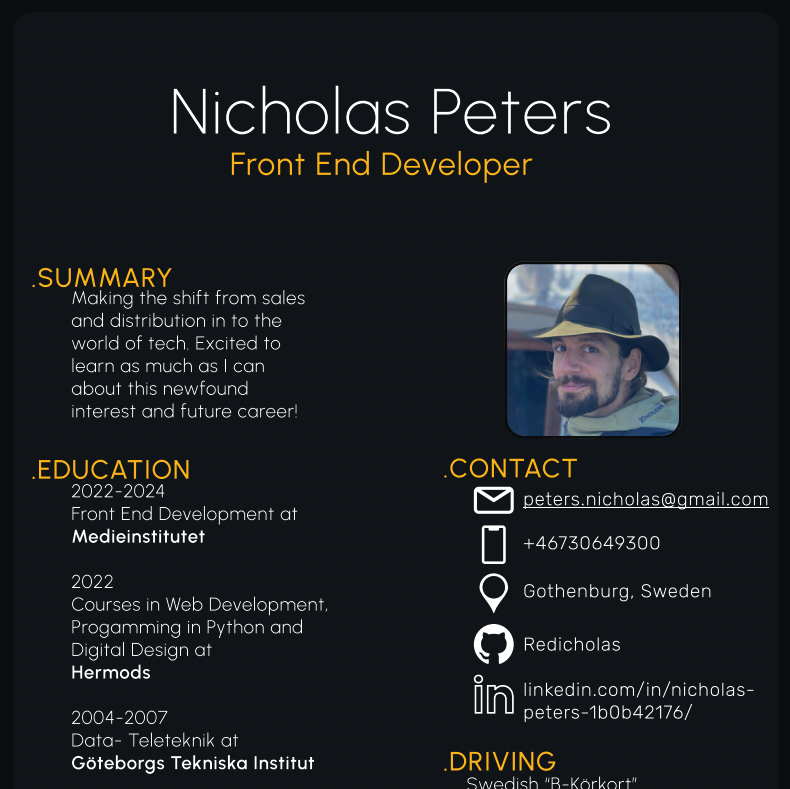
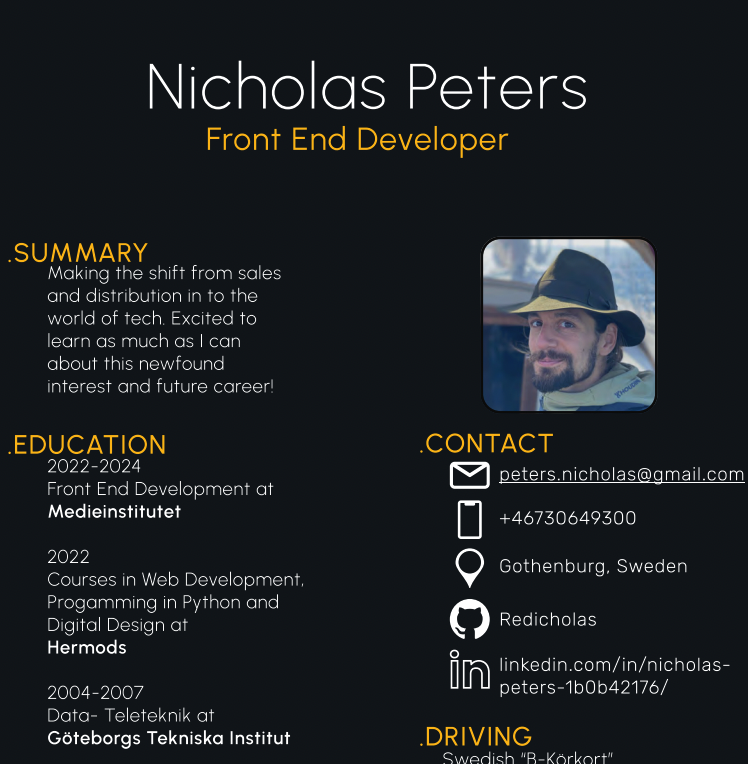
layout for desktop

diff --git a/index.html b/index.html
@@ -1,5 +1,5 @@
 <!DOCTYPE html>
-<html lang="en">
+<html lang="en" class="dark">
   <head>
     <meta charset="UTF-8" />
     <link rel="icon" type="image/svg+xml" href="/img/logo.svg" />
@@ -17,8 +17,7 @@
     ></script>
     <link rel="preconnect" href="https://fonts.googleapis.com">
     <link rel="preconnect" href="https://fonts.gstatic.com" crossorigin>
-    <link href="https://fonts.googleapis.com/css2?family=Jost:ital,wght@0,100;0,300;0,400;1,600&display=swap" rel="stylesheet">    
-    <link rel="stylesheet" href="src/style.css">
+    <link href="https://fonts.googleapis.com/css2?family=Montserrat:wght@300;600&display=swap" rel="stylesheet">    <link rel="stylesheet" href="src/style.css">
     <title>Nicholas Peters Portfolio</title>
   </head>
   
@@ -42,39 +41,41 @@
     </header>
 
     <!-- Hero -->
-    <section class="p-8 sm:pt-20 max-w-fit mx-auto">
-      <div class="flex sm:mt-20 justify-between items-center">
-        <h1 id="heading" class="text-3xl sm:text-6xl
-        textAppear invisible">
-          Nicholas:<br />&nbsp;&nbsp;Front End<br />&nbsp;&nbsp;Developer
-        </h1>
-        <img src="img/nicholas-peters.png" alt="Profile Image of Nicholas Peters" class="h-36 sm:h-56 rounded-full -z-10 opacity-80" loading="lazy" />
-      </div>
-      <h2 class="pt-8 text-xl sm:text-2xl max-w-md">
-        Creating intuitive and accessible web experiences
-      </h2>
-    </section>
+    <div class="flex flex-col xl:flex-row sm:min-h-screen gap-4 items-center justify-center">
+      <section class="p-8 sm:pt-20 max-w-fit mx-auto">
+        <div class="flex sm:mt-20 justify-between items-center flex-col xl:gap-4">
+          <h1 id="heading" class="text-5xl sm:text-6xl xl:text-8xl
+          textAppear invisible">
+            Nicholas:<br />&nbsp;&nbsp;Front End<br />&nbsp;&nbsp;Developer
+          </h1>
+          <img src="img/nicholas-peters.png" alt="Profile Image of Nicholas Peters" 
+            class="h-36 sm:h-56 xl:h-72 rounded-full -z-10 opacity-80" 
+            loading="lazy" />
+        </div>
+        <!-- <h2 class="pt-8 text-xl sm:text-2xl max-w-md">
+          Creating intuitive and accessible web experiences
+        </h2> -->
+      </section>
 
-    <!-- About -->
-    <section class="py-12 " id="about">
-      <h2 class="text-center text-2xl sm:text-4xl mb-4">A little about me.</h2>
-      <p class="px-8 sm:px-0 py-8 max-w-xl mx-auto">
-        Hi there! <br />
-        My name is Nicholas Peters. I am an aspiring front-end developer
-        currently studying at Medieinstitutet in Sweden. I am excited to start
-        my first apprenticeship in the autumn of 2023 and gain hands-on
-        experience in the field. My ultimate goal is to find a medium-sized web
-        agency that specializes in React, but I am open to exploring different
-        opportunities and expanding my skillset. If you have any recommendations
-        or would like to get in touch, please don't hesitate to reach out. I am
-        always eager to learn and grow as a developer.
-      </p>
+      <!-- About -->
+      <section class="xl:mt-36 xl:pr-24 px-8 sm:px-0 py-8 max-w-xl mx-auto" id="about">
+        <h2 class="text-center text-2xl sm:text-4xl mb-4 xl:text-5xl">A little about me.</h2>
+        <p class=" xl:text-xl">
+          Hello there! <br />
+          I'm Nicholas Peters. I'm a future front-end developer who's currently attending Medieinstitutet in Sweden. 
+          In the fall of 2023, I'm looking forward to beginning my first period of apprenticeship and getting some practical work experience. 
+          I'm always keen to learn new technologies and improve as a developer.
+          Please do not hesitate to get in touch if you have any recommendations or would want to contact me for an idea. 
+        </p>
+        <a href="#contact"><button class="py-4 px-12 mt-12 shadow-btn">Contact</button></a>
+    </div>
 
       <!-- CV Thumbnail -->
+      <section class="xl:flex">
       <div class="mx-auto flex flex-col justify-center items-center">
-        <h3 class="text-center text-xl">My CV</h3>
+        <h3 class="text-center text-xl xl:text-4xl xl:mb-12">My CV</h3>
         <button id="cvThumbnail">
-          <img src="/img/cv-img.png" alt="My Cv" class="rounded cursor-zoom-in"
+          <img src="/img/cv-img.png" alt="My Cv" class="rounded cursor-zoom-in xl:w-36"
           height="100" width="100" />
         </button>
       </div>
@@ -90,9 +91,9 @@
       </div>
 
       <!-- Technologies -->
-      <div class="my-16 p-8 rounded-xl max-w-xl mx-auto">
-        <h3 class="text-center text-xl mb-2">Technologies</h3>
-        <div class="text-center flex justify-around">
+      <div class="my-16 p-8 rounded-xl max-w-xl mx-auto ">
+        <h3 class="text-center text-xl mb-2 xl:text-4xl xl:mb-12">Technologies</h3>
+        <div class="text-center flex justify-around gap-24 xl:text-2xl">
           <ul>
             <li>HTML</li>
             <li>CSS</li>

diff --git a/src/style.css b/src/style.css
@@ -34,20 +34,36 @@ i {
 h1,
 h2,
 h3 {
-  font-family: "Jost", "sans";
+  font-family: "Montserrat", "sans";
   font-weight: 600;
-  font-style: italic;
 }
 
 p {
-  font-family: "Jost", "sans";
+  font-family: "Montserrat", "sans";
   font-weight: 300;
 }
 
-.neumorphic {
-  border-radius: 20px;
-  background: #bbd6e2;
-  box-shadow: 10px 10px 30px #7b8c94, -10px -10px 30px #d7f6ff;
+.shadow-btn {
+  padding: 10px 20px;
+  border: none;
+  font-size: 17px;
+  color: #fff;
+  border-radius: 7px;
+  letter-spacing: 4px;
+  font-weight: 700;
+  text-transform: uppercase;
+  transition: 0.5s;
+  transition-property: box-shadow;
+}
+
+.shadow-btn {
+  background: #40dde6;
+  box-shadow: 0 0 5px #40dde6;
+}
+
+.shadow-btn:hover {
+  box-shadow: 0 0 5px #40dde6, 0 0 5px rgba(0, 140, 255, 07), 0 0 15px #40dde6,
+    0 0 25px #40dde6;
 }
 
 #heading {

diff --git a/src/main.ts b/src/main.ts
@@ -60,8 +60,8 @@ function showPortfolioItems() {
         title="${title}"
         target="_blank">
         <div class="rounded-xl max-w-md mx-auto mb-10 p-4 border border-transparentBlack
-         sm:hover:shadow-none sm:hover:bg-transparentBlack transition-all
-          dark:hover:bg-[#232A30]">
+         sm:hover:shadow-none sm:hover:bg-transparentBlack hover:bg-transparentBlack transition-all
+          ">
           <h3 class="text-center mb-2 text-2xl h-16">${title}</h3>
             <img src="${imageUrl}" alt="${imgAlt}" 
             class="rounded-xl m-auto mb-4 w-full max-w-xs border border-transparentBlack"
